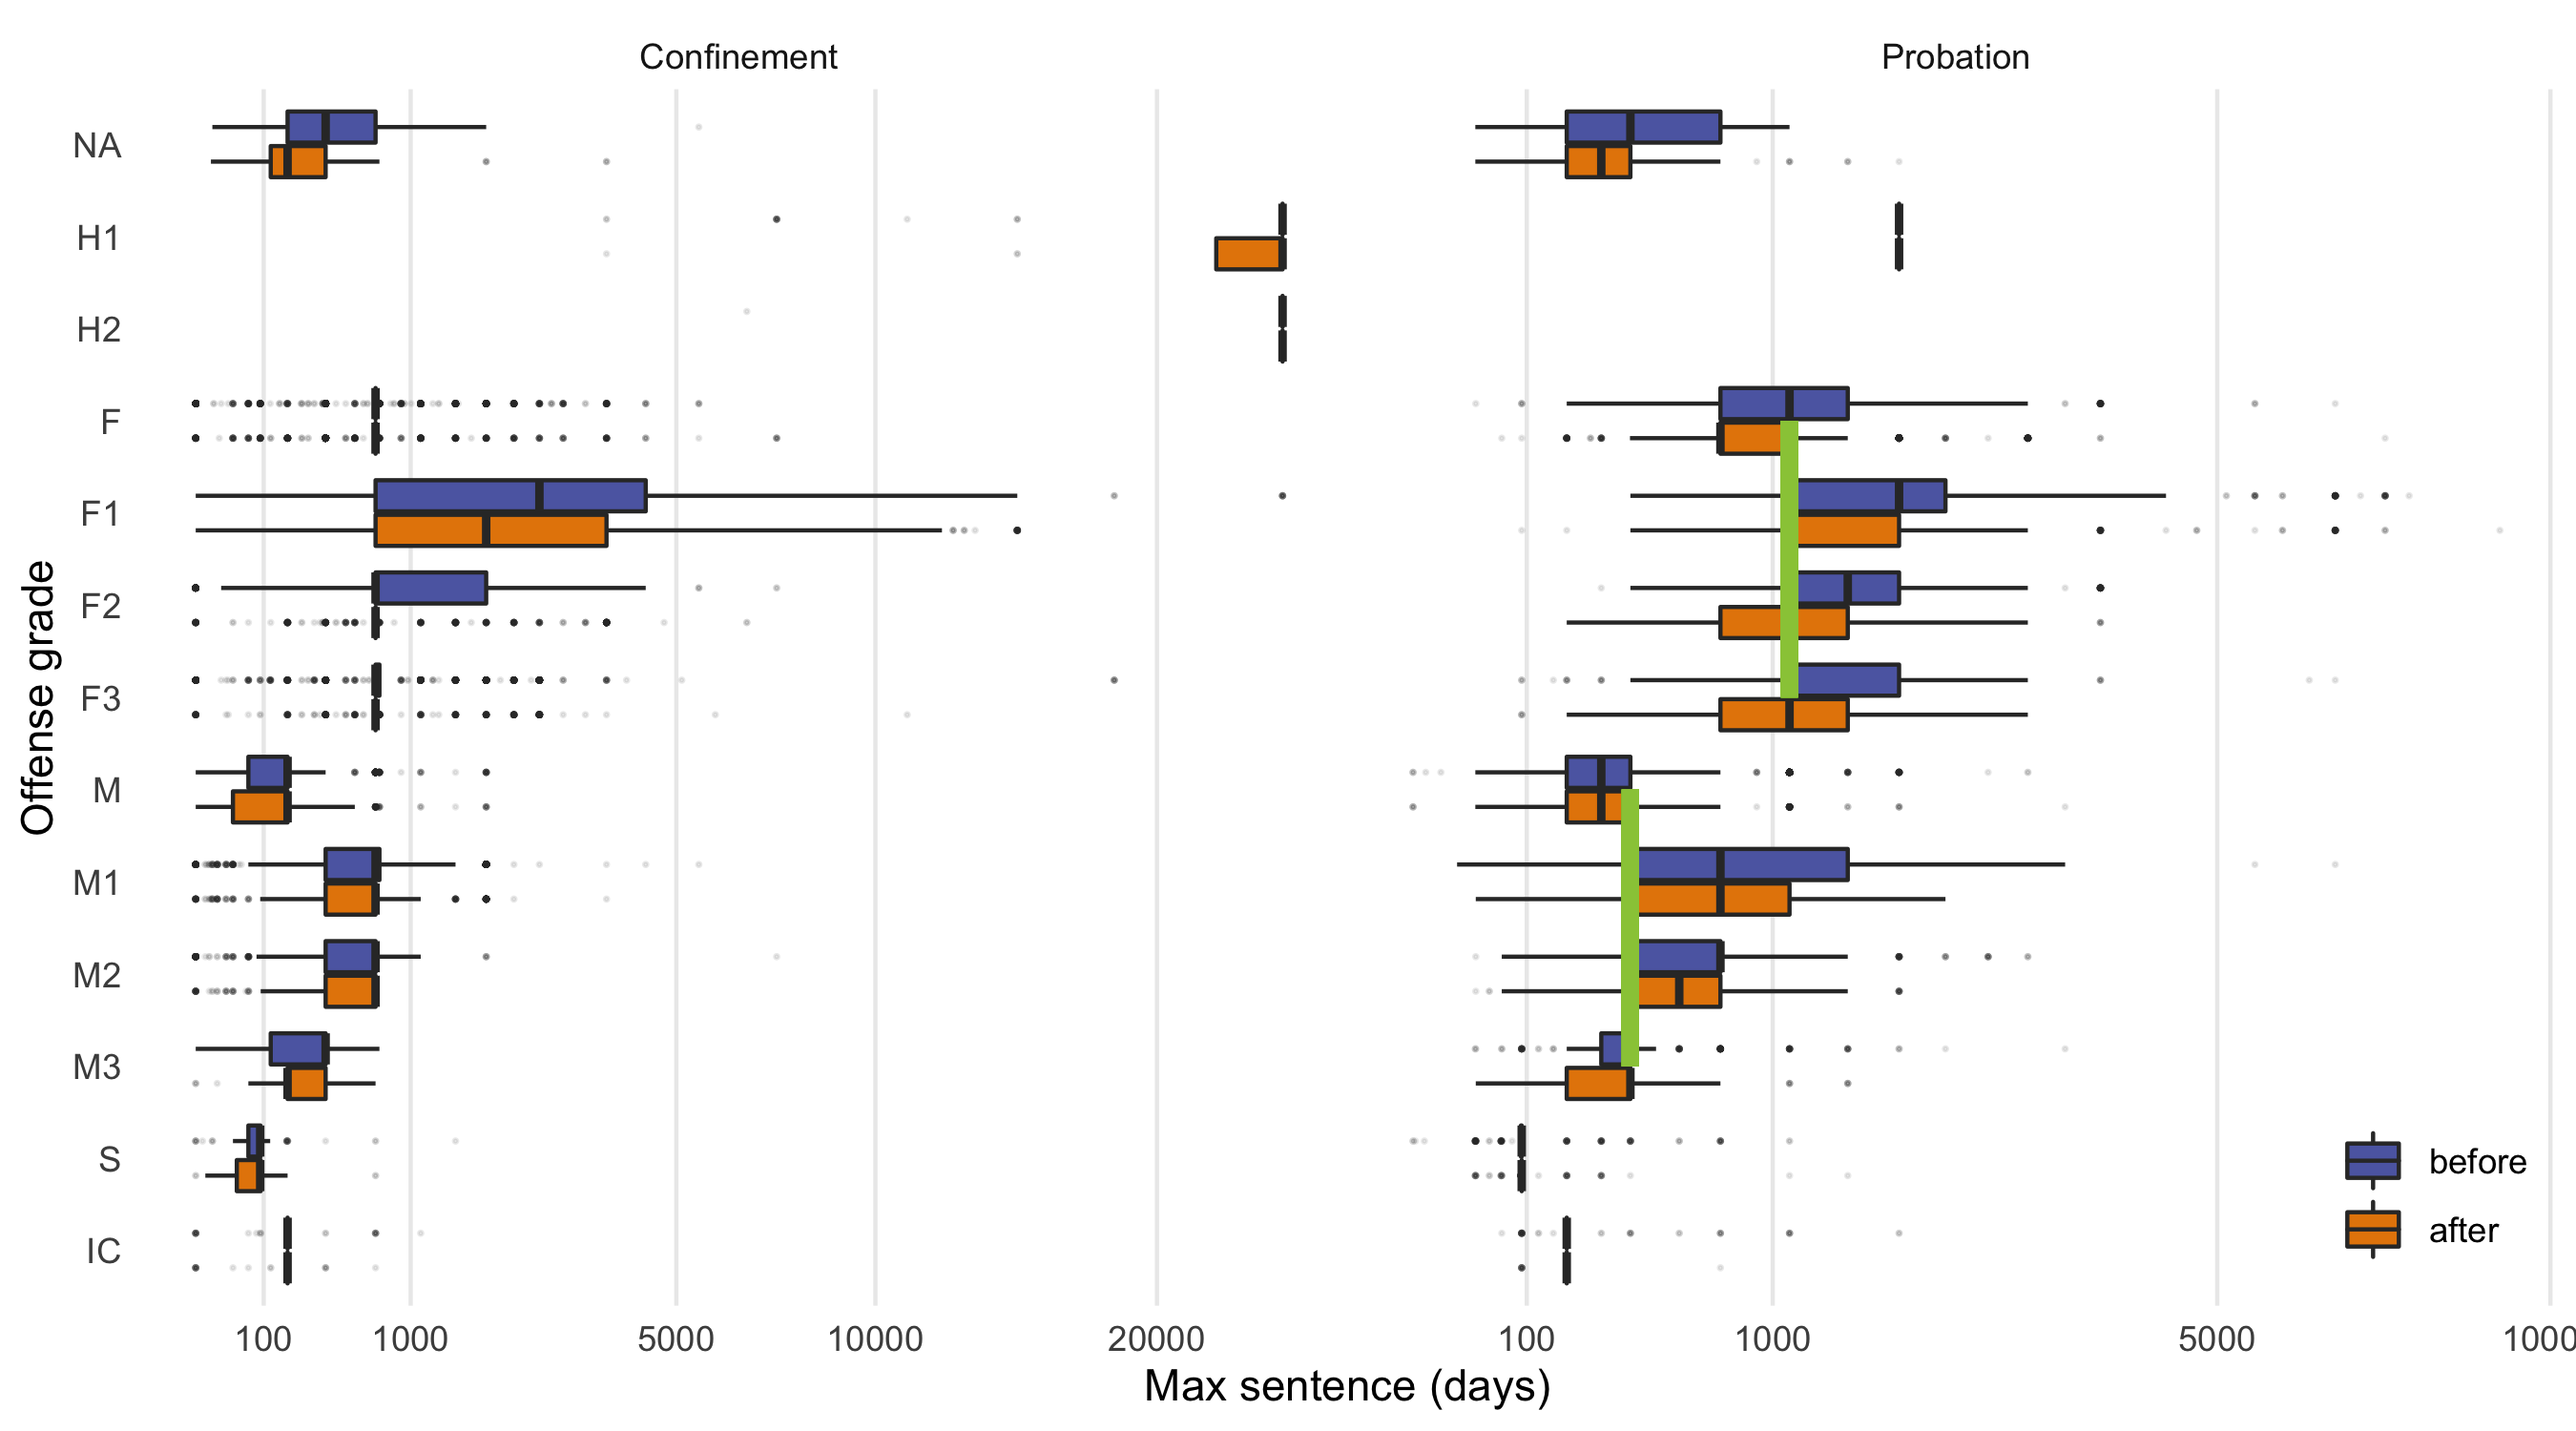
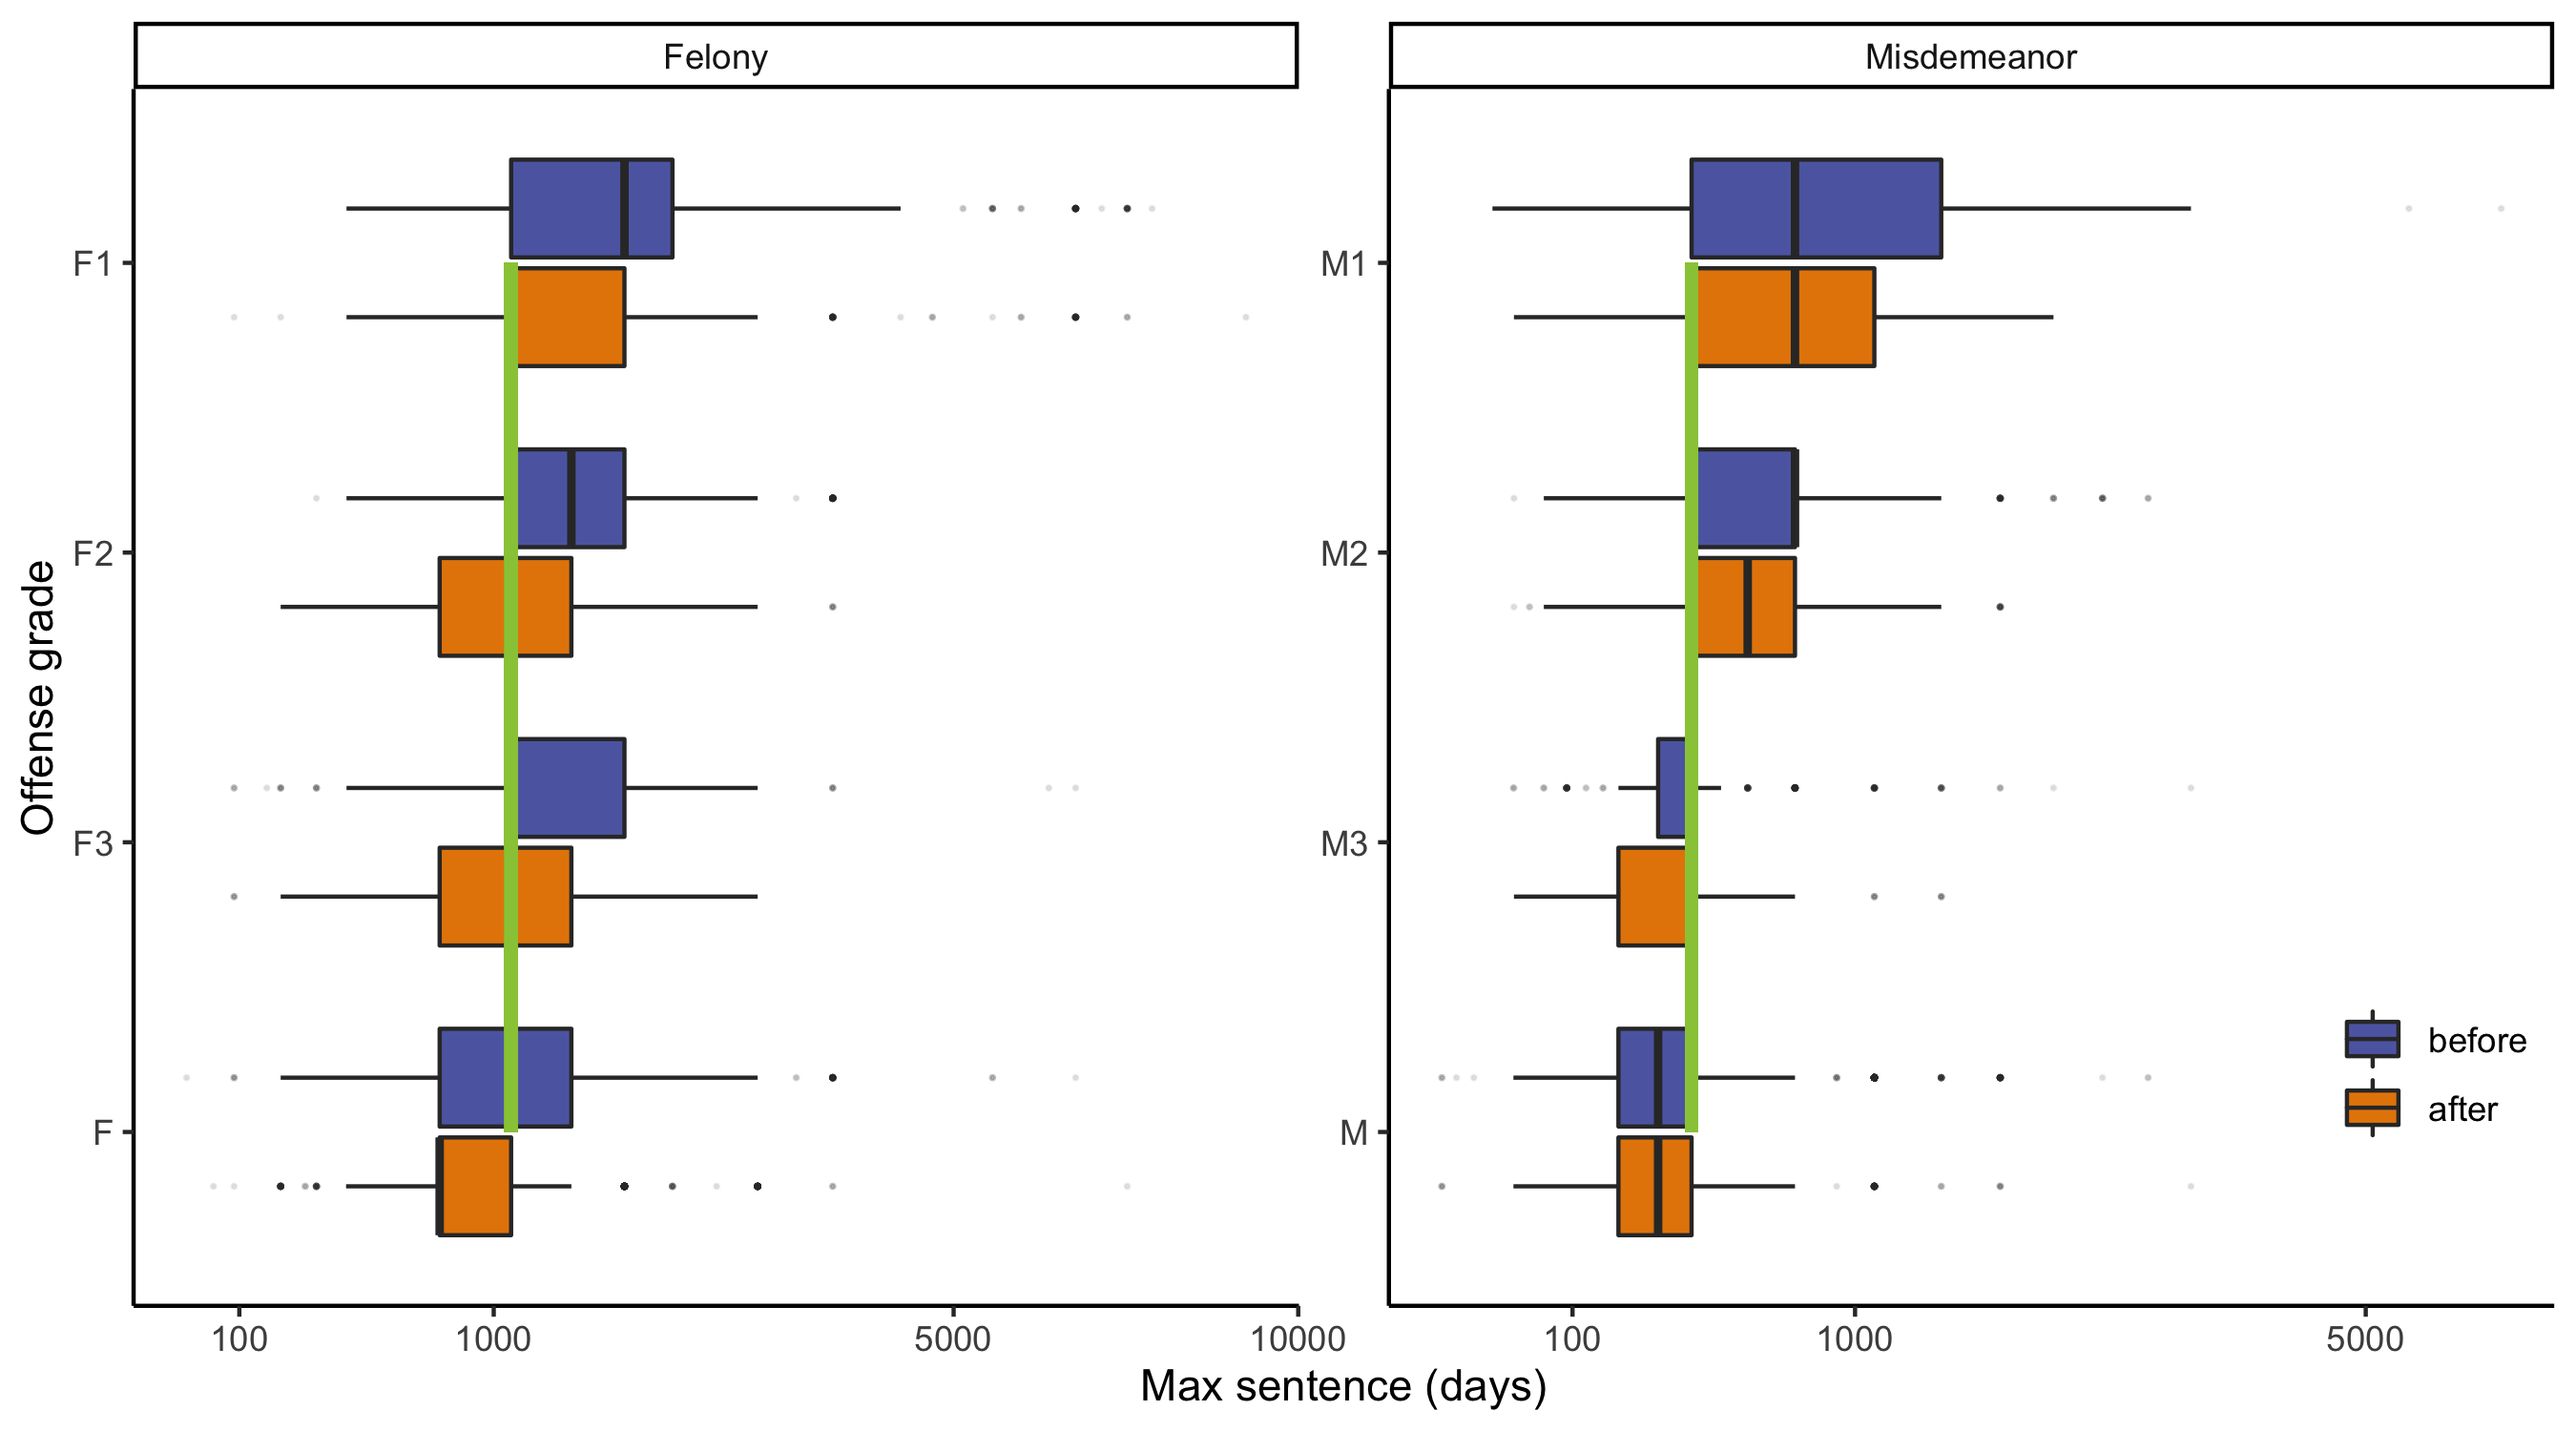
Add Mitch's suggestion (#13)
* add Mitch's suggestion

* save figs for slides

* reorder F and M

diff --git a/analyses/team3/reports/max-sentencing.md b/analyses/team3/reports/max-sentencing.md
@@ -151,30 +151,50 @@ def_disp <- def_raw %>%
         factor(ordered = TRUE)
   )
 
-def_disp %>%
+p <- def_disp %>%
   drop_na(period_bef_aft) %>%
-  filter(sentence_type != 'IPP') %>% 
+  mutate(
+    grade = grade %>% 
+      fct_relevel("F", "M", after = 0),
+    offense_type = substr(grade, 1, 1),
+    x_bar = case_when(
+      offense_type == "M" ~ 365,
+      offense_type == "F" ~ 3 * 365,
+      TRUE ~ NA_real_
+    ),
+    offense_facet = case_when(
+      offense_type == "M" ~ "Misdemeanor",
+      offense_type == "F" ~ "Felony",
+      TRUE ~ NA_character_
+    )
+  ) %>%
+  filter(
+    sentence_type == "Probation",
+    !is.na(x_bar)
+  ) %>%
   ggplot(aes(fill = period_bef_aft, x = max_period_days, y = grade)) +
   geom_boxplot(outlier.size = 0.2, outlier.alpha = 0.1) +
   scale_x_sqrt(breaks = c(100, 1000, 5000, 10000, 20000)) +
   labs(fill = NULL, y = "Offense grade", x = "Max sentence (days)") +
+  guides(fill = guide_legend(reverse = TRUE)) +
+  geom_segment(aes(x = x_bar, xend = x_bar, yend = offense_type),
+    color = "#99C945", size = 1.5
+  ) +
+  rcartocolor::scale_fill_carto_d() +
+  facet_wrap(vars(offense_facet), scales = "free") +
+  theme_classic() +
   theme(
-    legend.position = c(0.95, 0.1),
+    legend.position = c(0.95, 0.2),
     panel.grid.major.y = element_blank()
   ) +
-  guides(fill = guide_legend(reverse = TRUE)) +
-  geom_segment(
-    data = . %>% filter(sentence_type == 'Probation'),
-    mapping = aes(x = 365, xend = 365, y = 'M', yend = 'M3'),
-               color = '#99C945', size = 2) +
-  geom_segment(
-    data = . %>% filter(sentence_type == 'Probation'),
-    mapping = aes(x = 3*365, xend = 3*365, y = 'F', yend = 'F3'),
-               color = '#99C945', size = 2) +
-  rcartocolor::scale_fill_carto_d() +
-  facet_grid(cols = vars(sentence_type), scales = 'free') +
   # gghighlight::gghighlight(!grade %in% c("M1", "M3", "F", "S", "IC")) +
   NULL
+p
 ```
 
 ![](max-sentencing_files/figure-gfm/max-sentence-trend-1.png)<!-- -->
+
+``` r
+ggsave('reports/figs/max-sentence.png', p, height = 3, width = 7)
+# ggsave('figs/max-sentence.png', p, height = 3, width = 7)
+```
